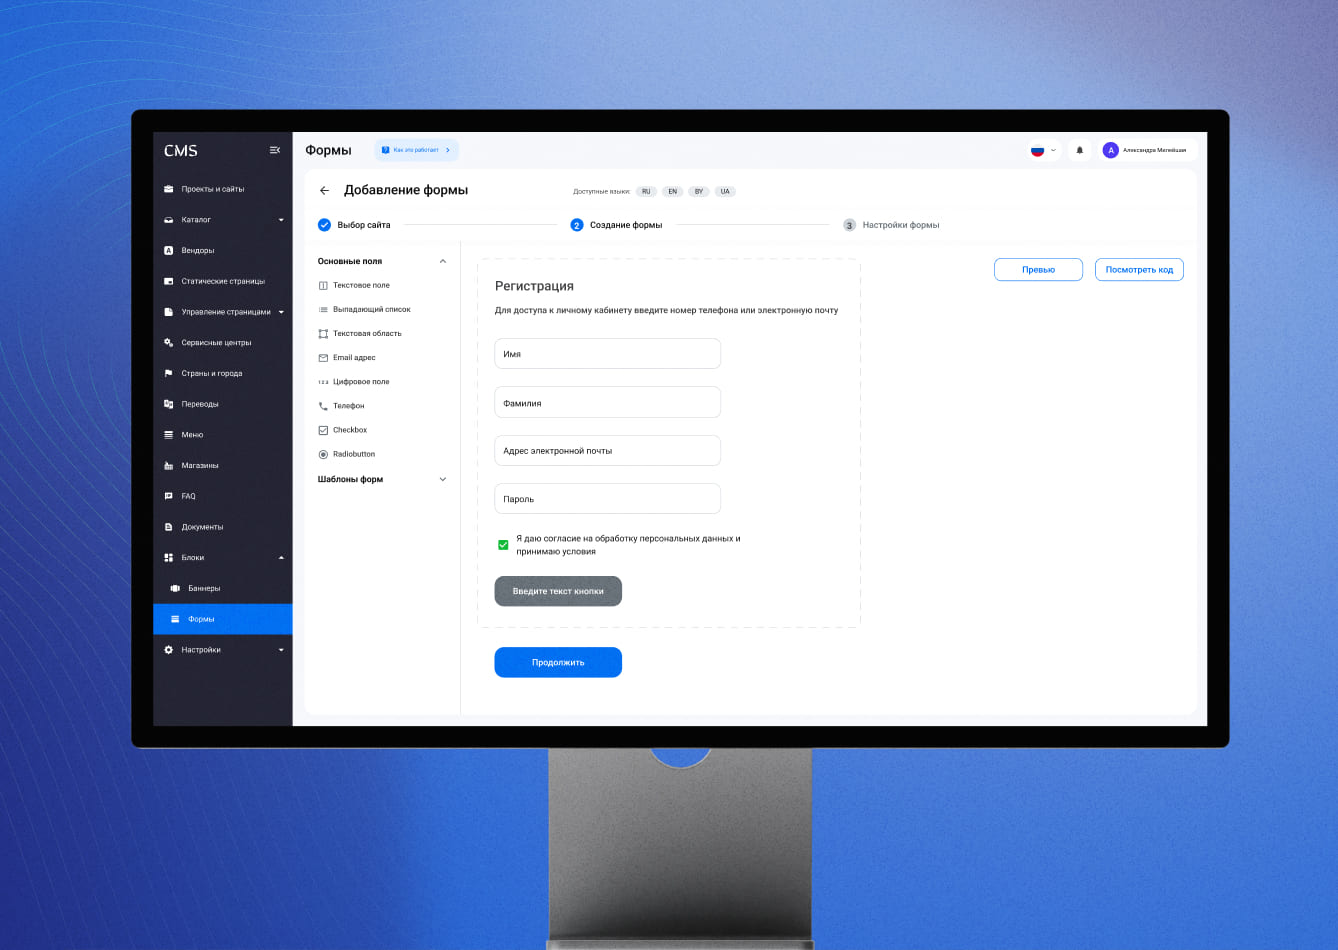
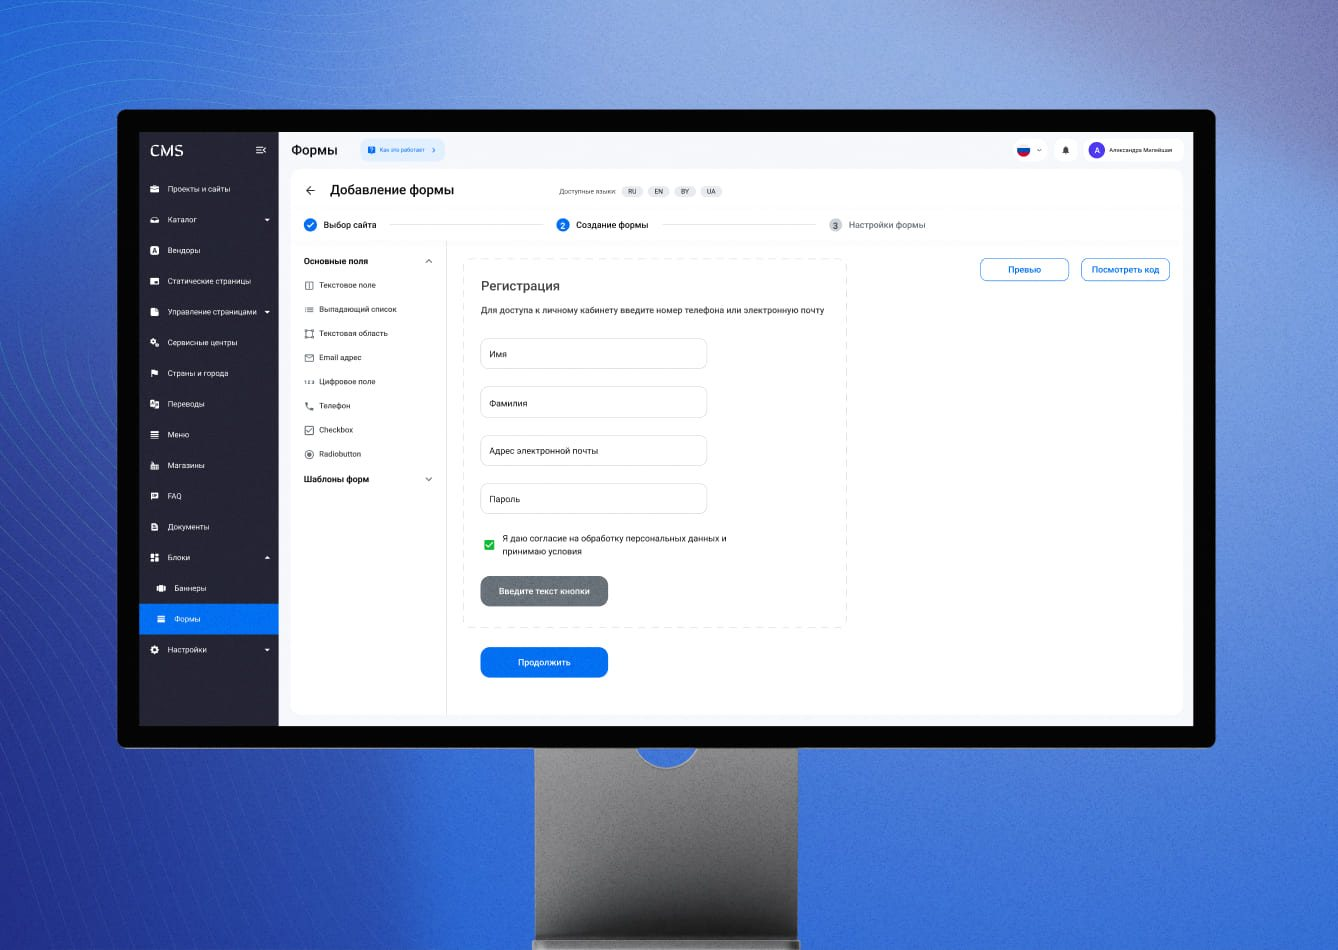
Заполнить вкладку веб-сервисов в галерее UI
Порядок: Atoma, VaultFlow, Go Invest, Financier, Valetax, обновлённый CMS. Все шесть слотов заполнены, подписи переводятся на английский.

diff --git a/js/i18n-data.js b/js/i18n-data.js
@@ -298,6 +298,7 @@ window.ANDY_I18N_EN = {
   "Аудит текущего экрана FlowBot": "Audit of the current FlowBot screen",
   "Все транзакции в одном месте.": "Every transaction in one place.",
   "Поиск врача и запись на приём": "Doctor search and booking",
+  "DeFi-сейф и аналитика позиций": "DeFi vault and position analytics",
   "Конкуренты и позиционирование": "Competitors and positioning",
   "поиск и селект с выбором бирж": "search and the exchange picker",
   "Политика использования cookie": "Cookie policy",
@@ -320,6 +321,8 @@ window.ANDY_I18N_EN = {
   "Проекты с продуктовым процессом": "Work with a full product process",
   "Фокус на прогрессе пользователя": "Focused on the user’s progress",
   "Бронирование парковочного места": "Parking spot booking",
+  "Кабинет депозитов и комплаенса": "Deposits and compliance desk",
+  "Платформа персонального брокера": "Personal broker platform",
   "Четыре варианта макета на ревью": "Four layout options in review",
   "1. Онбординг и заполнение анкеты": "1. Onboarding and filling in the profile",
   "Вариант расположения элементов 1": "Layout option 1",
@@ -340,6 +343,7 @@ window.ANDY_I18N_EN = {
   "Торговля без эмоций и круглосуточно": "Trading without emotion, around the clock",
   "транзакционной активности в Online+": "transactional activity in Online+",
   "потенциальных фич в начальном списке": "potential features on the first list",
+  "Atoma — DeFi-сейф и аналитика позиций": "Atoma — DeFi vault and position analytics",
   "Конструктор дизайна банковской карты": "Bank card design studio",
   "3. Что считается cookie на этом сайте": "3. What counts as a cookie here",
   "Детально изучаю наработки по проекту.": "I go through the existing project work in detail.",
@@ -393,6 +397,8 @@ window.ANDY_I18N_EN = {
   "CMS — внутренняя система для управления проектами": "CMS — internal project-management system",
   "HugAmi — приложения для медитаций": "HugAmi — meditation apps",
   "BSB — игровая копилка с заданиями": "BSB — a piggy-bank game with quests",
+  "Обучение инвестициям для новичков": "Investing lessons for beginners",
+  "Админка финтеха и контроль доступа": "Fintech admin and access control",
   "Frostbyte — мобильное приложение с вознаграждениями": "Frostbyte — mobile rewards app",
   "Все используют табличный вид для отображения данных": "All of them use a table to show the data",
   "Изучаем полученные инсайты от группы пользователей.": "We review insights from a user group.",
@@ -407,7 +413,11 @@ window.ANDY_I18N_EN = {
   "Homevision — дизайн интерьеров с ИИ": "Homevision — AI interior design",
   "Parking — бронирование парковочного места": "Parking — parking spot booking",
   "Plata — конструктор дизайна банковской карты": "Plata — bank card design studio",
+  "VaultFlow — кабинет депозитов и комплаенса": "VaultFlow — deposits and compliance desk",
+  "Go Invest — платформа персонального брокера": "Go Invest — personal broker platform",
+  "Valetax — обучение инвестициям для новичков": "Valetax — investing lessons for beginners",
   "Сбер Здоровье — поиск врача и запись на приём": "Sber Health — doctor search and booking",
+  "Financier — админка финтеха и контроль доступа": "Financier — fintech admin and access control",
   "iPool — удалённое управление всеми функциями бассейна": "iPool — remote control of every pool function",
   "За счёт отображения ключевых функций на одном экране.": "By putting the key actions on a single screen.",
   "Hermatic — автоматизированный трейдинг": "Hermatic — automated trading",

diff --git a/index.html b/index.html
@@ -282,28 +282,28 @@
           </div>
           <div class="hscroll__track" id="ui-web" data-tab="web" role="tabpanel" aria-labelledby="tab-web" aria-hidden="true">
             <figure class="shot">
+              <div class="shot__img"><img src="assets/img/atoma.jpg" width="1338" height="950" alt="Atoma — DeFi-сейф и аналитика позиций" loading="lazy"></div>
+              <figcaption><b>Atoma</b><span>DeFi-сейф и аналитика позиций</span></figcaption>
+            </figure>
+            <figure class="shot">
+              <div class="shot__img"><img src="assets/img/dashboard.jpg" width="1338" height="950" alt="VaultFlow — кабинет депозитов и комплаенса" loading="lazy"></div>
+              <figcaption><b>VaultFlow</b><span>Кабинет депозитов и комплаенса</span></figcaption>
+            </figure>
+            <figure class="shot">
+              <div class="shot__img"><img src="assets/img/broker.jpg" width="1338" height="950" alt="Go Invest — платформа персонального брокера" loading="lazy"></div>
+              <figcaption><b>Go Invest</b><span>Платформа персонального брокера</span></figcaption>
+            </figure>
+            <figure class="shot">
+              <div class="shot__img"><img src="assets/img/finance.jpg" width="1338" height="950" alt="Financier — админка финтеха и контроль доступа" loading="lazy"></div>
+              <figcaption><b>Financier</b><span>Админка финтеха и контроль доступа</span></figcaption>
+            </figure>
+            <figure class="shot">
+              <div class="shot__img"><img src="assets/img/valetax.jpg" width="1338" height="950" alt="Valetax — обучение инвестициям для новичков" loading="lazy"></div>
+              <figcaption><b>Valetax</b><span>Обучение инвестициям для новичков</span></figcaption>
+            </figure>
+            <figure class="shot">
               <div class="shot__img"><img src="assets/img/cms.jpg" width="1338" height="950" alt="CMS — внутренняя система для управления проектами" loading="lazy"></div>
               <figcaption><b>CMS</b><span>Внутренняя система для управления проектами</span></figcaption>
-            </figure>
-            <figure class="shot shot--soon">
-              <div class="shot__img"><img src="assets/img/placeholder.svg" width="1338" height="950" alt="" loading="lazy"></div>
-              <figcaption><b>Скоро</b><span>Веб-сервис</span></figcaption>
-            </figure>
-            <figure class="shot shot--soon">
-              <div class="shot__img"><img src="assets/img/placeholder.svg" width="1338" height="950" alt="" loading="lazy"></div>
-              <figcaption><b>Скоро</b><span>Веб-сервис</span></figcaption>
-            </figure>
-            <figure class="shot shot--soon">
-              <div class="shot__img"><img src="assets/img/placeholder.svg" width="1338" height="950" alt="" loading="lazy"></div>
-              <figcaption><b>Скоро</b><span>Веб-сервис</span></figcaption>
-            </figure>
-            <figure class="shot shot--soon">
-              <div class="shot__img"><img src="assets/img/placeholder.svg" width="1338" height="950" alt="" loading="lazy"></div>
-              <figcaption><b>Скоро</b><span>Веб-сервис</span></figcaption>
-            </figure>
-            <figure class="shot shot--soon">
-              <div class="shot__img"><img src="assets/img/placeholder.svg" width="1338" height="950" alt="" loading="lazy"></div>
-              <figcaption><b>Скоро</b><span>Веб-сервис</span></figcaption>
             </figure>
           </div>
         </div>
